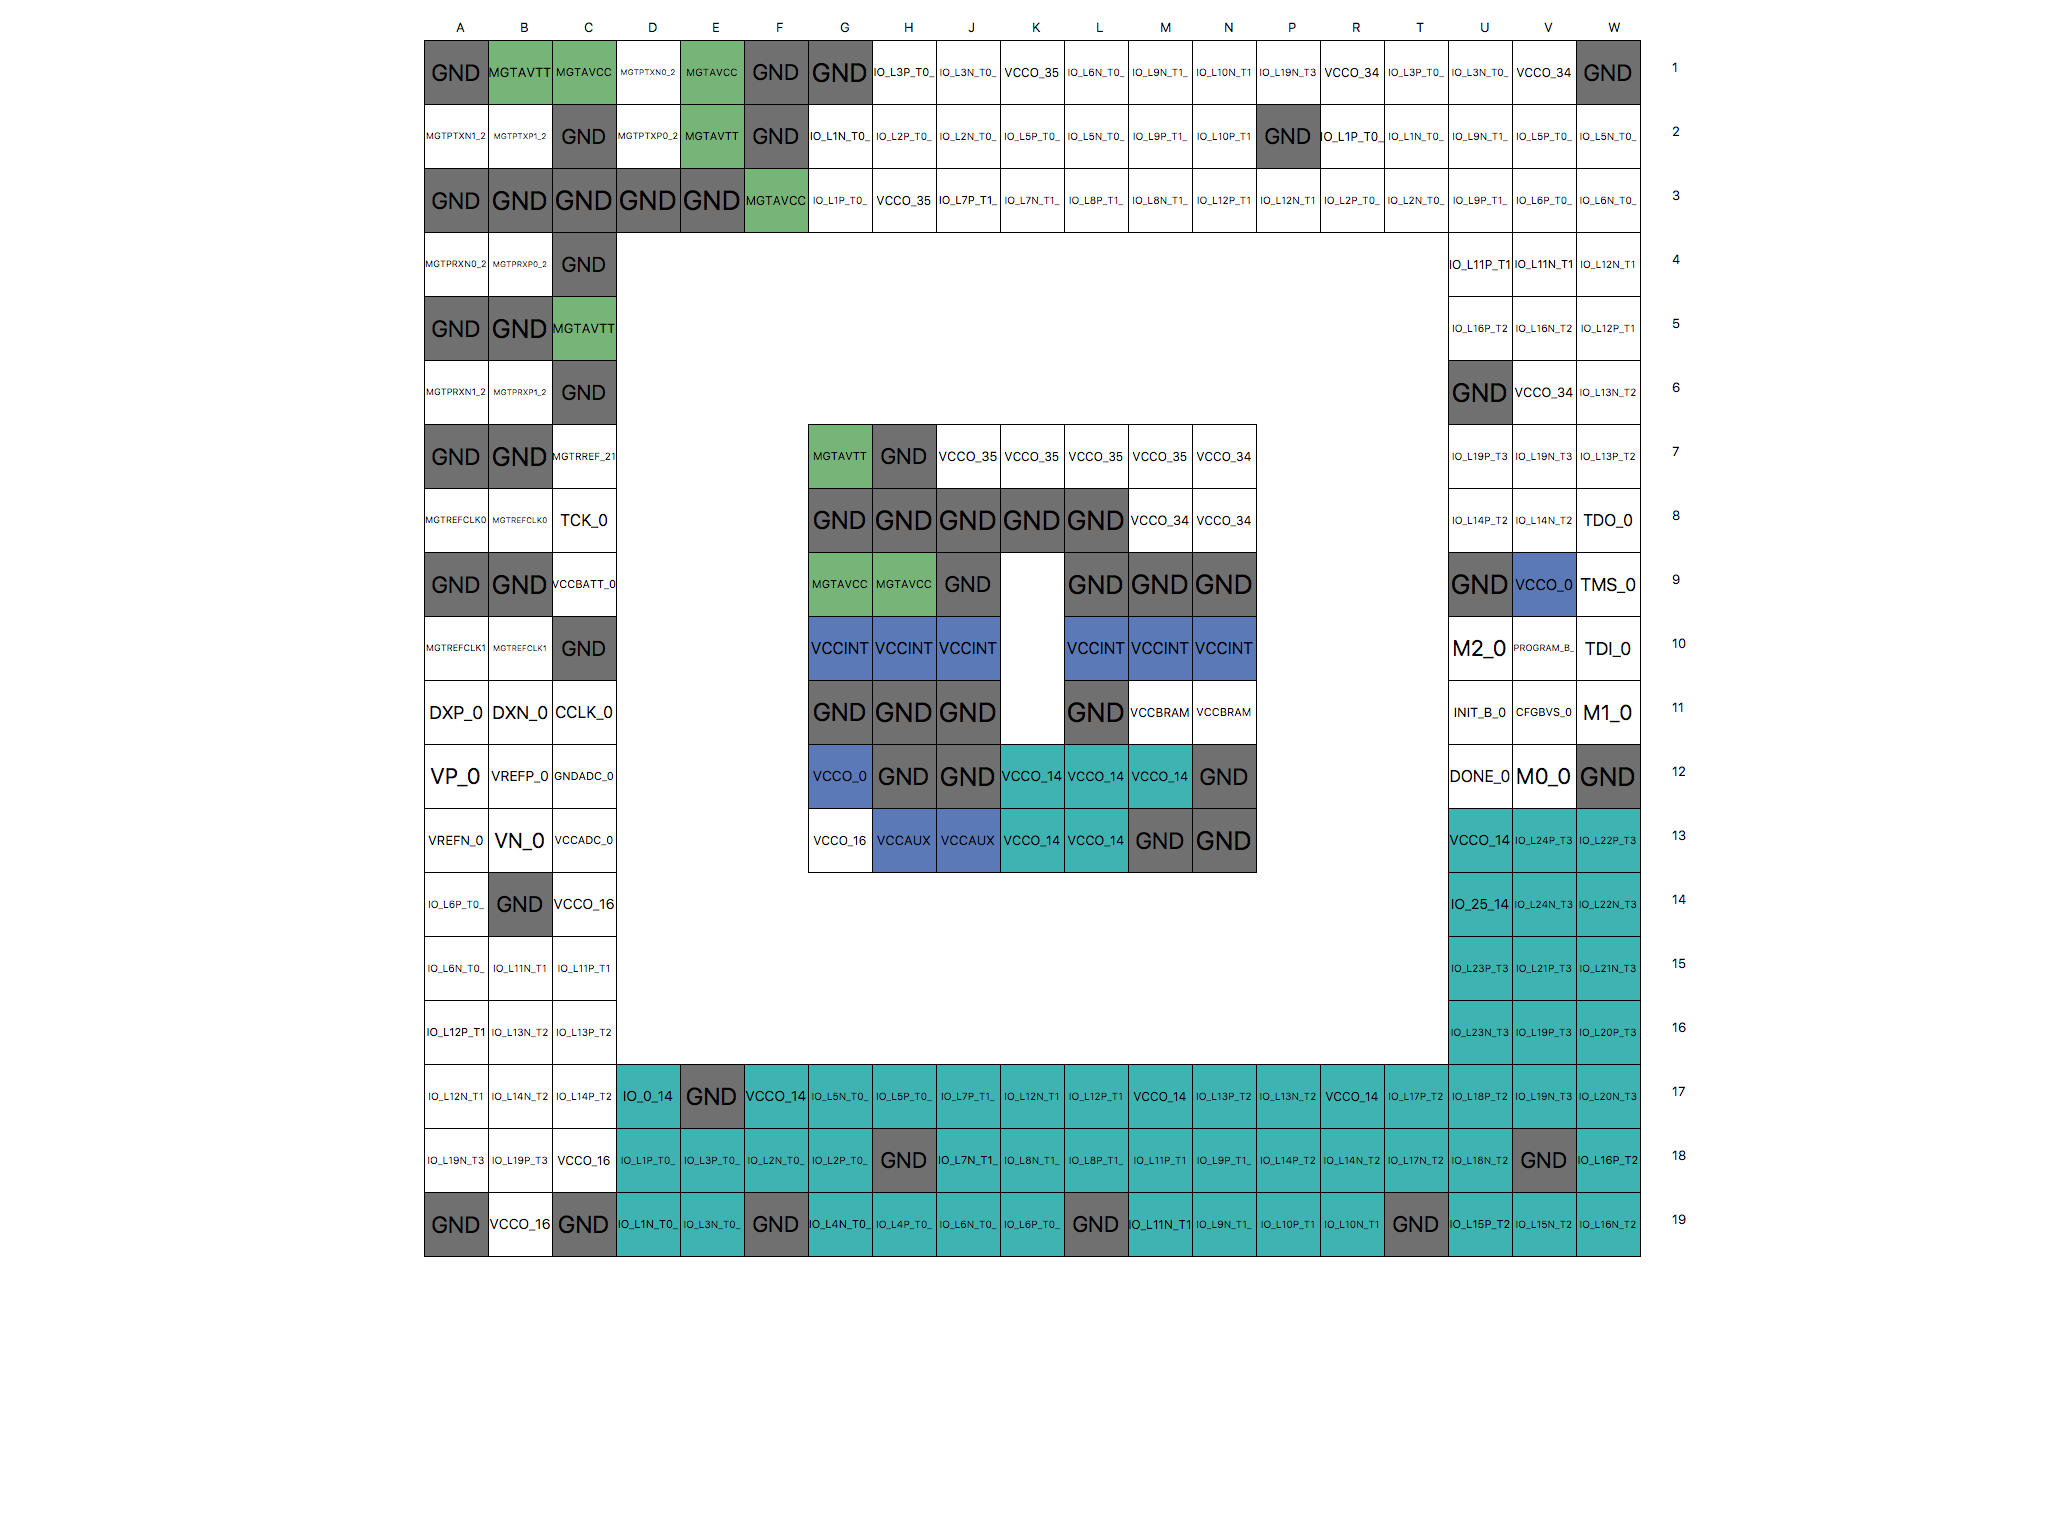
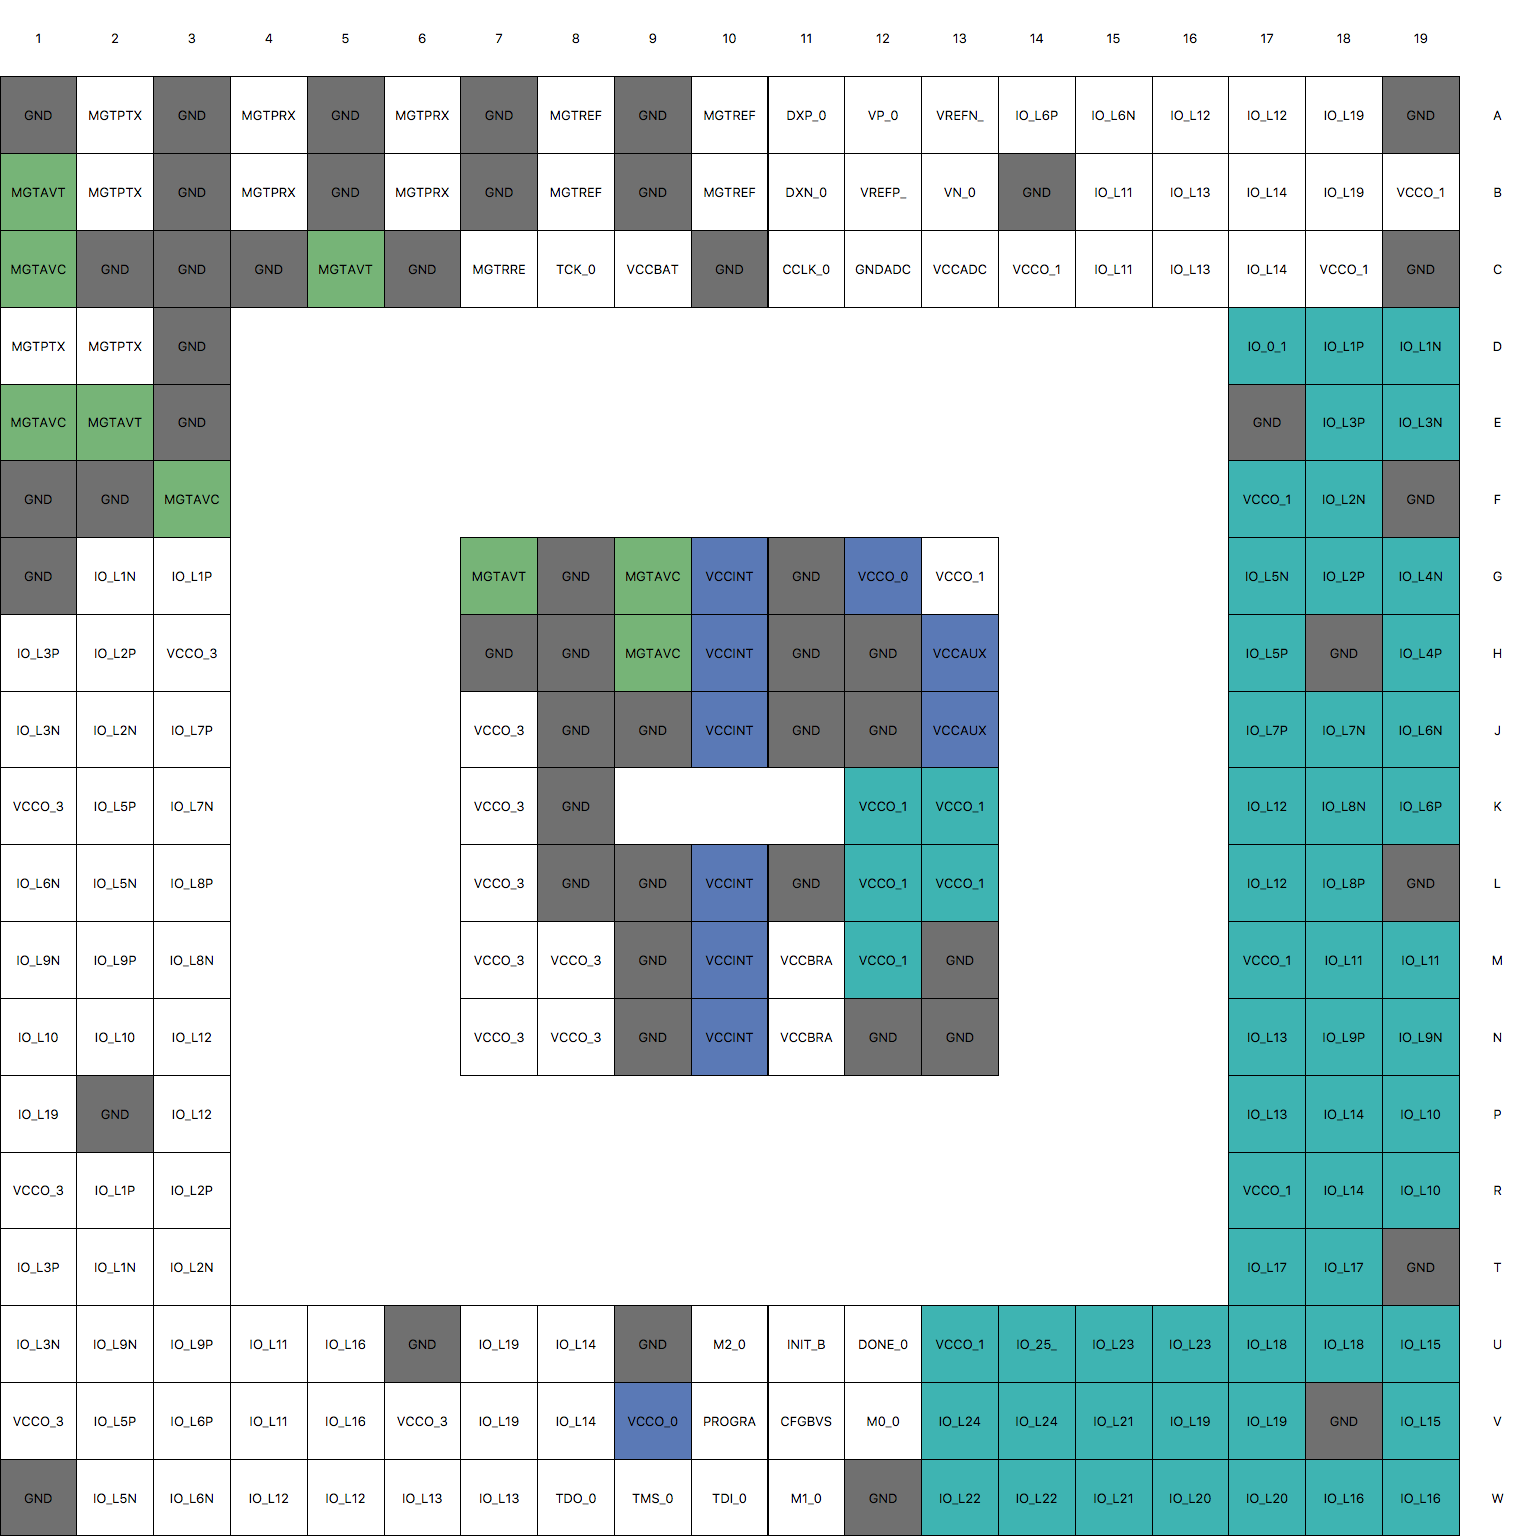
Added render hints which improved translation and the images. Rotation works but would be awesome to rotate elements not just the final image.  Maybe switch to SVG for pixelation on the final render?

diff --git a/color_map/color_map.py b/color_map/color_map.py
@@ -14,7 +14,7 @@ from PyQt5.QtWidgets import (QApplication, QWidget, QGraphicsView,
                              QGraphicsPixmapItem, QGraphicsScene)
 from PyQt5.QtGui import (QPainter, QBrush, QColor, QFontMetrics, QFont, QImage,
                          QPixmap)
-from PyQt5.QtCore import QRectF, Qt
+from PyQt5.QtCore import QRectF, Qt, QPoint
 
 
 class PartViewer(QGraphicsView):
@@ -33,15 +33,18 @@ class PartViewer(QGraphicsView):
         self.factor = 1.0
 
     def initUI(self):
-        self.resize(self.width, self.height)
         self.setWindowTitle(self.title)
         self.item = QPixmap.fromImage(self.image)
-        item = self.item.scaled(self.width, self.height, Qt.KeepAspectRatio)  #Loses quality
+        item = self.item.scaled(self.width,
+                                self.height,
+                                Qt.KeepAspectRatio,
+                                Qt.SmoothTransformation)
         self.scene = QGraphicsScene()
         self.scene.addPixmap(item)
         self.setScene(self.scene)
         self.setTransformationAnchor(self.AnchorUnderMouse)
         self.setResizeAnchor(self.AnchorUnderMouse)
+        self.setDragMode(self.ScrollHandDrag)
 
     def resetZoom(self):
         self.fitInView(QRectF(0, 0, self.width, self.height))
@@ -70,6 +73,12 @@ class PartViewer(QGraphicsView):
         img = QImage(w, h, QImage.Format_RGB32)  # 2k image
         img.fill(QColor('#ffffff'))  # Background Color
         self.paint = QPainter(img)
+        self.paint.setRenderHints(QPainter.HighQualityAntialiasing |
+                                  QPainter.SmoothPixmapTransform |
+                                  QPainter.TextAntialiasing, True)
+        if self.orientation:  # TODO: Rotate all pieces in painter not just img
+            self.paint.translate(QPoint(w, 0))
+            self.paint.rotate(90)
         for hdr_offset, column in enumerate(COLUMNS):
             self.paint.drawText(QRectF(hdr_offset * self.BOX_SIZE,
                                        0,
